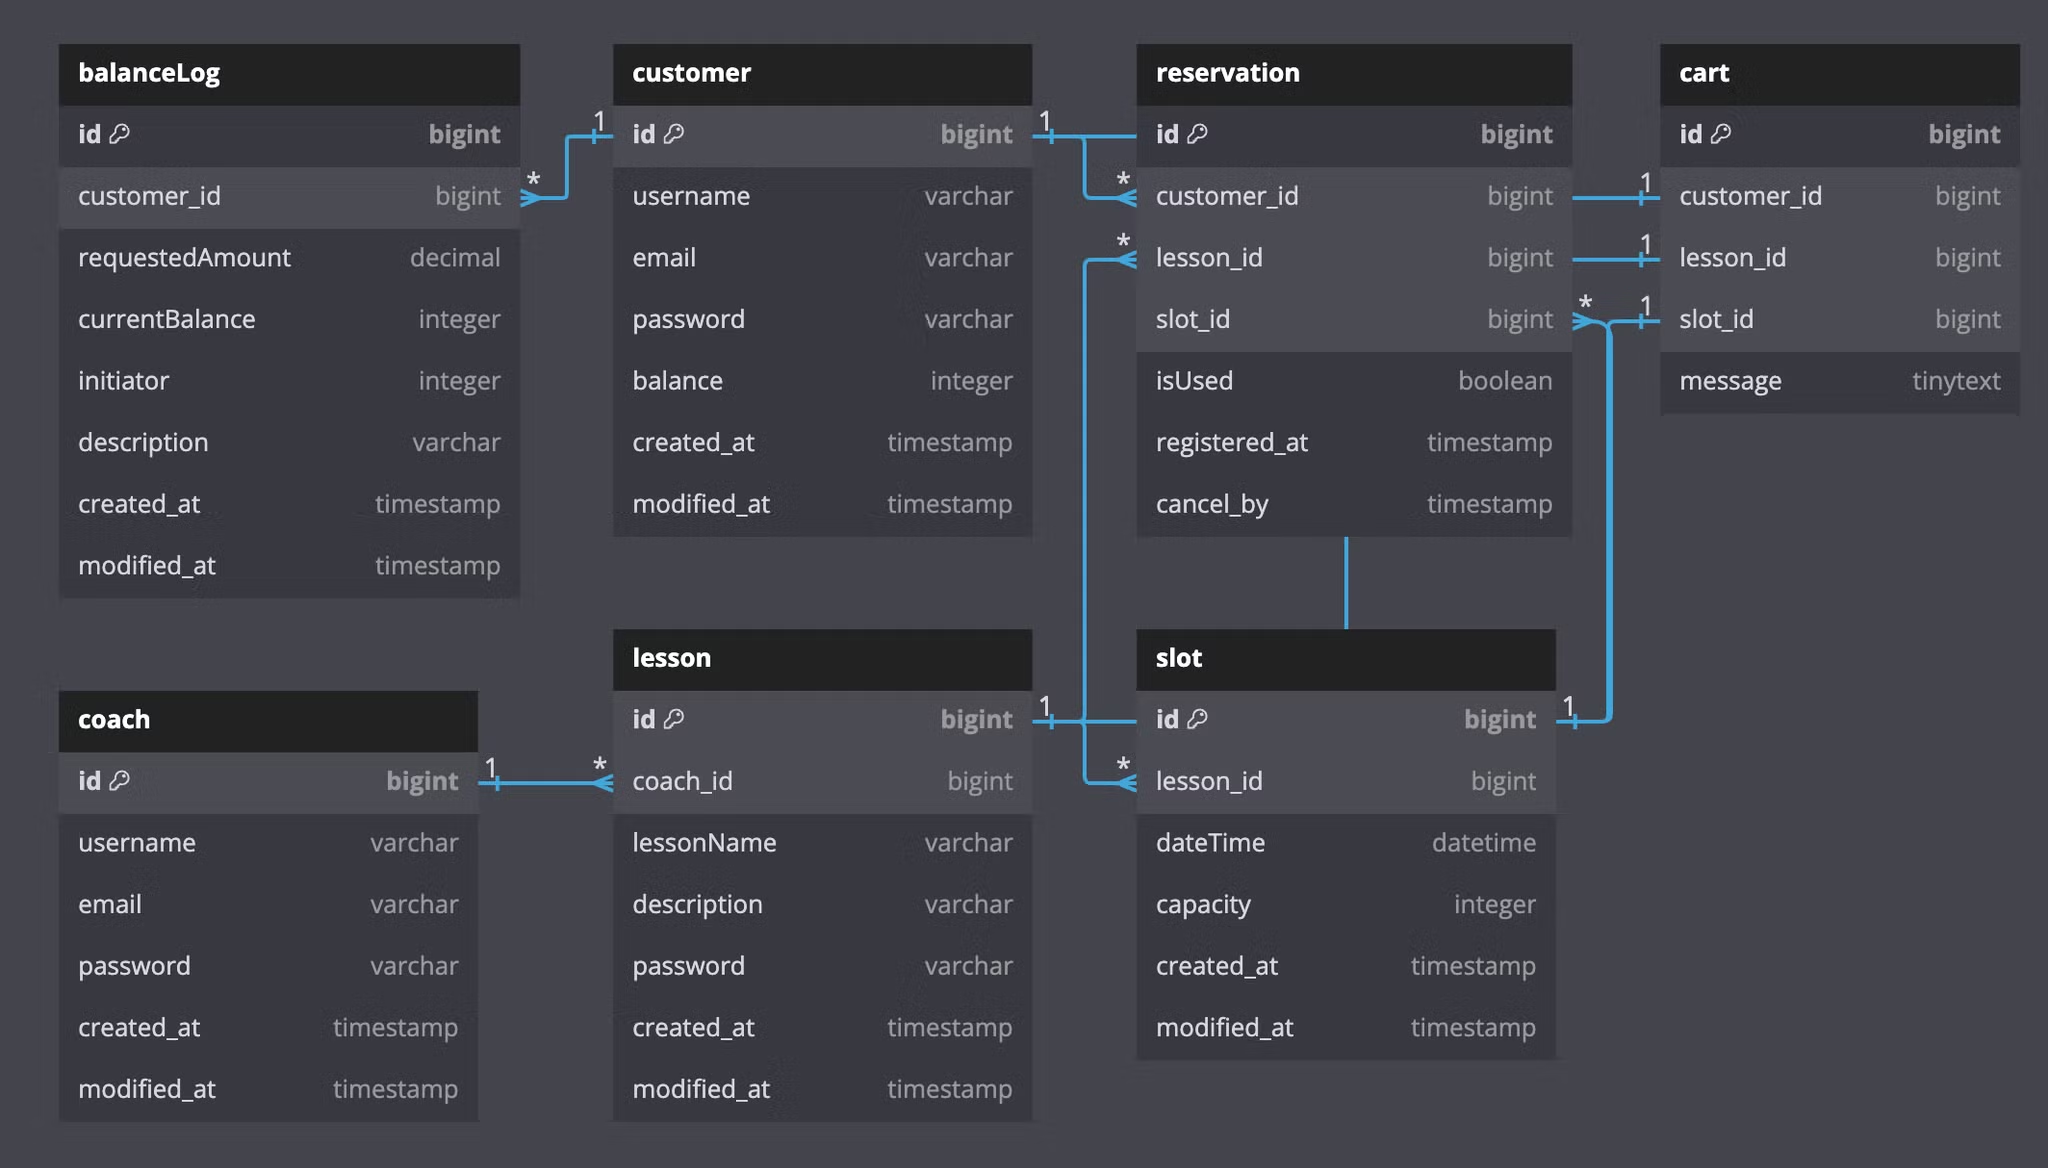
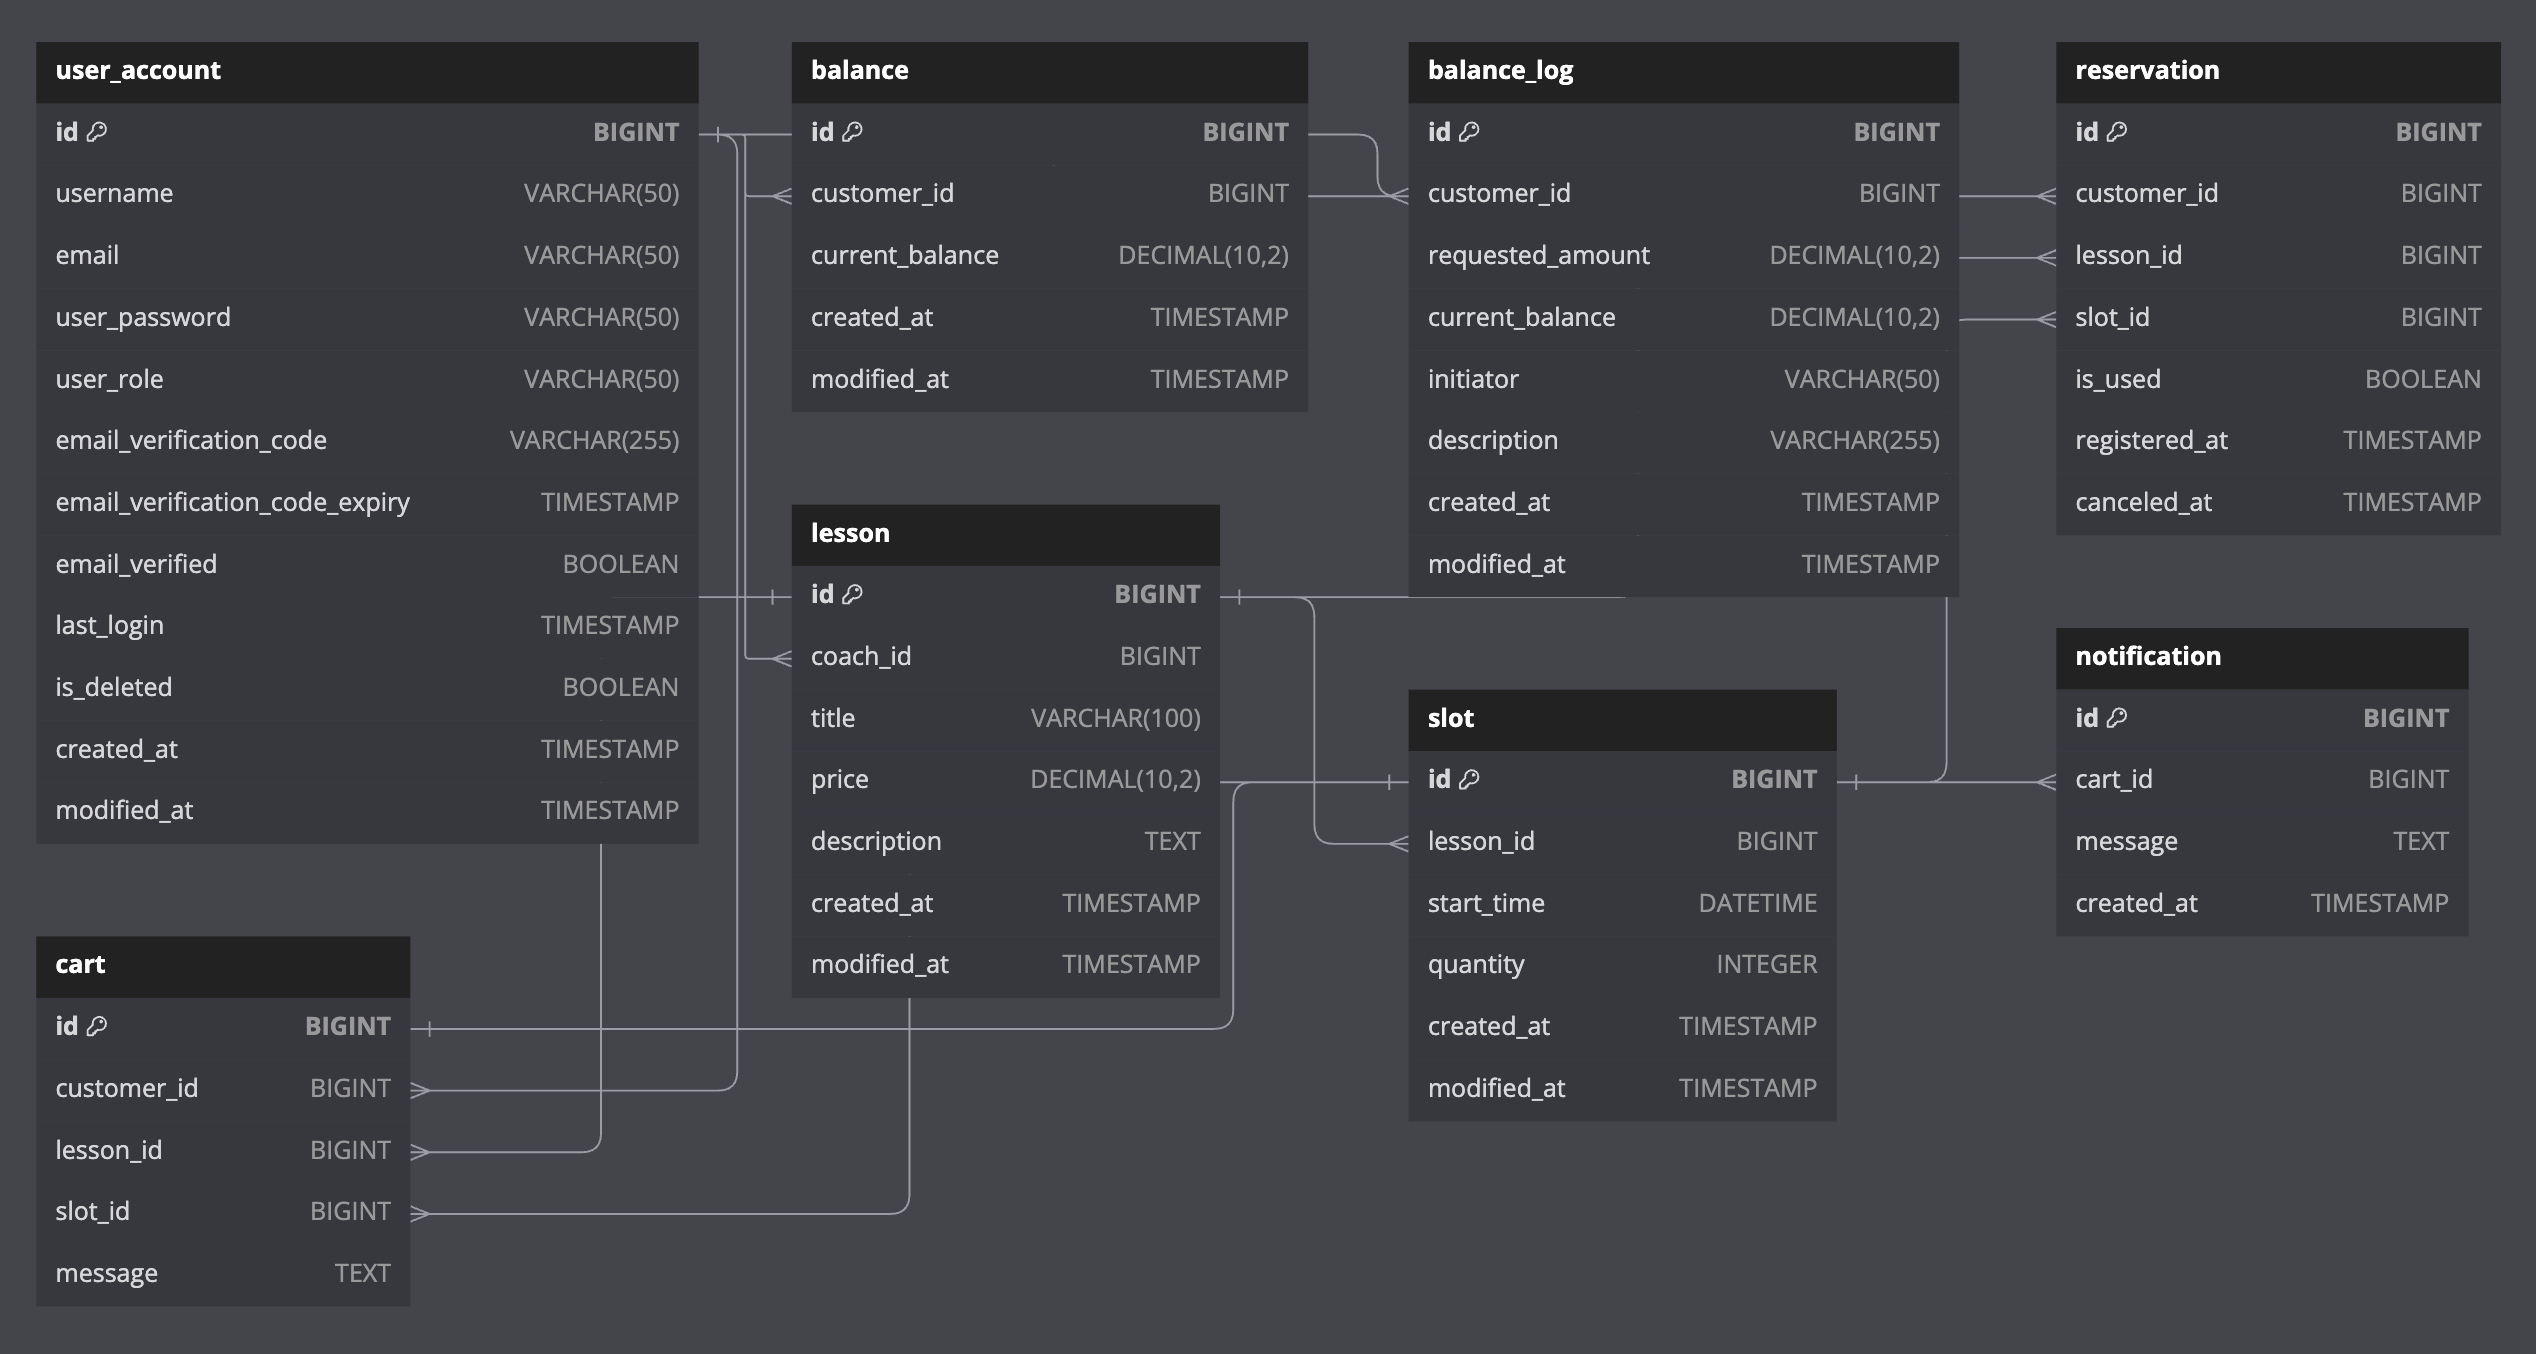
fix: ERD와 README 파일 수정
- ERD 필드 네이밍을 snake_case로 통일했습니다.
- 장바구니 변경 내역에 관한 알림 메시지 기능을 표현하기 위해 notification을 ERD에 추가했습니다.
- 회원 계정의 역할이 필드로 구분되는 구성을 ERD에 반영했습니다.
- 필드 네이밍 규칙을 맞지 않는 부분을 ERD에서 수정했습니다.
- 본인 이메일 인증 기능에 대한 설명을 README에 추가했습니다.
- 회원 정보 수정이 가능한 필드를 명시하기 위해 README를 수정했습니다.

diff --git a/README.md b/README.md
@@ -7,16 +7,20 @@
 #### 1. 회원 기능
 
 - 회원 가입
-    - 회원 계정은 `코치` 혹은 `고객` 역할로 생성한다.
+    - 회원 계정은 `코치` 혹은 `고객` 역할 중 하나로 설정한다.
         - **코치 (Coach):** 1:1 PT 프로그램을 제공하는 코치를 나타낸다. 코치 정보를 저장하며, 수업 (Lesson)을 등록, 수정, 삭제하는 권한을 가진다.
         - **고객 (Customer)** :수업을 신청하는 고객을 나타낸다. 고객의 정보를 저장하며, 수업을 예약하는 권한을 가진다.
     - 회원 가입 시 이름, 이메일, 비밀번호를 입력한다.
         - 이름과 이메일은 기존 회원과 중복되지 않는다.
         - 이메일은 이메일 주소 포맷에 맞게 입력한다.
-        - 이메일 인증을 통해 가입을 완료한다.
+          - 이메일 주소가 올바른지 인증하기 위해 별도의 이메일 인증 절차를 진행한다.
+          - 회원 가입시 이메일로 전송된 인증 링크를 통해 본인의 이메일을 인증할 수 있다.
+          - 이메일 인증 요청은 30분 이후에 만료되며 새로운 인증 링크 요청이 가능하다.
         - 비밀번호는 8자 이상 32자 이하이며 대소문자, 숫자, 특수문자를 포함한다.
 - 회원 정보 수정
     - 회원은 로그인 후 자신의 회원 정보를 수정한다.
+    - 사용자 이름, 비밀번호, 이메일만 수정할 수 있다.
+    - 계정 역할은 초기에 설정 후 변경이 불가하다.
     - 새로 입력한 정보가 회원 가입시 주어진 조건과 맞을 때 기존 정보를 수정할 수 있다.
 - 회원 탈퇴
     - 회원은 로그인 후 자신의 계정을 삭제한다.
@@ -25,6 +29,7 @@
     - 가입 정보와 입력한 정보가 일치하지 않으면 로그인할 수 없다.
 - 로그아웃
     - 회원은 로그인 후 자신의 계정을 로그아웃한다.
+    - 동일한 계정으로 로그인된 기기를 모두 로그아웃할 수 있다.
 
 #### 2. 상품 관리 기능
 
@@ -38,16 +43,16 @@
 #### 3. 상품 검색 기능
 
 - 상품명 검색
-    - 코치와 고객은 로그인 여부와 관계없이 수업명을 검색한다.
+    - 모든 사용자는 로그인 여부와 관계없이 수업명을 검색한다.
 - 상품 상세 조회
-    - 코치 고객은 로그인 여부와 관계없이 수업명, 가격, 선택 가능한 슬롯을 조회한다.
+    - 모든 사용자는 로그인 여부와 관계없이 수업명, 가격, 선택 가능한 슬롯을 조회한다.
 
 #### 4. 장바구니 기능
 
 - 장바구니 상품 추가, 조회, 수정, 삭제
     - 고객은 로그인 후 원하는 수업을 장바구니에 추가하거나 장바구니에서 삭제한다.
-    - 장바구니에 동일한 수업과 슬롯이 있다면 추가할 수 없다.
-    - 장바구니 조회 시 특정 수업 정보의 변동이 있다면 알림 메시지 표시 후 장바구니 내역에 반영된다.
+    - 장바구니에 동일한 수업의 슬롯은 중복으로 추가할 수 없다.
+    - 특정 수업 정보의 변동이 있다면 알림 메시지로 내역이 저장되며 장바구니 조회시 목록에 반영된다.
 
 #### 5. 상품 주문 기능
 
